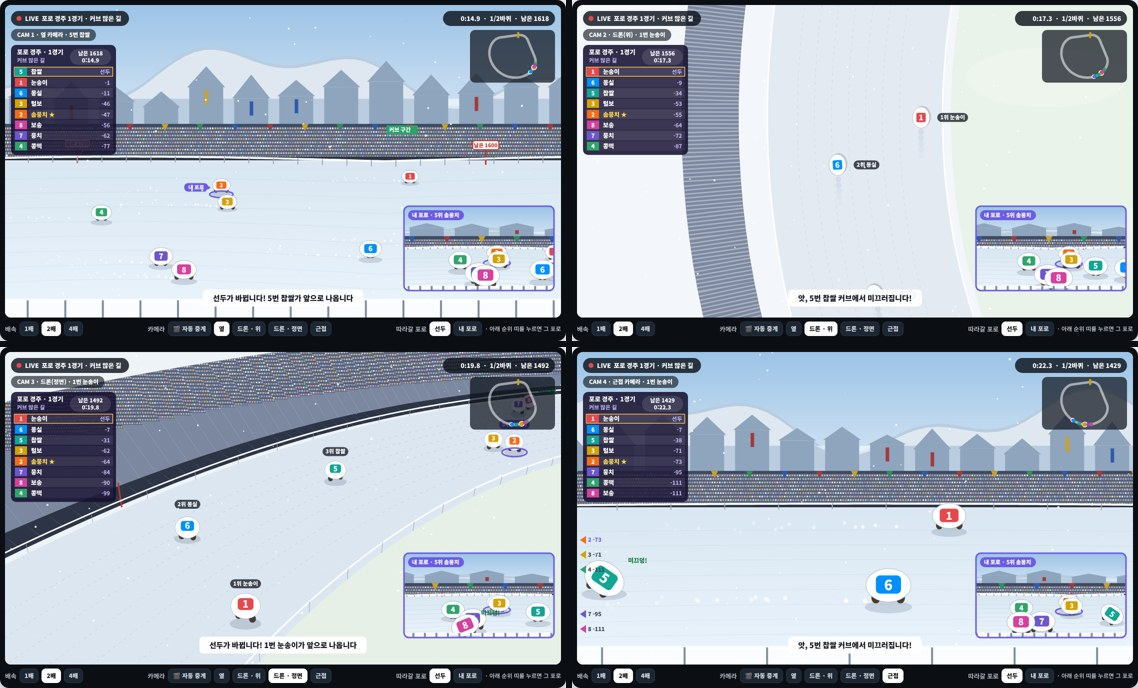
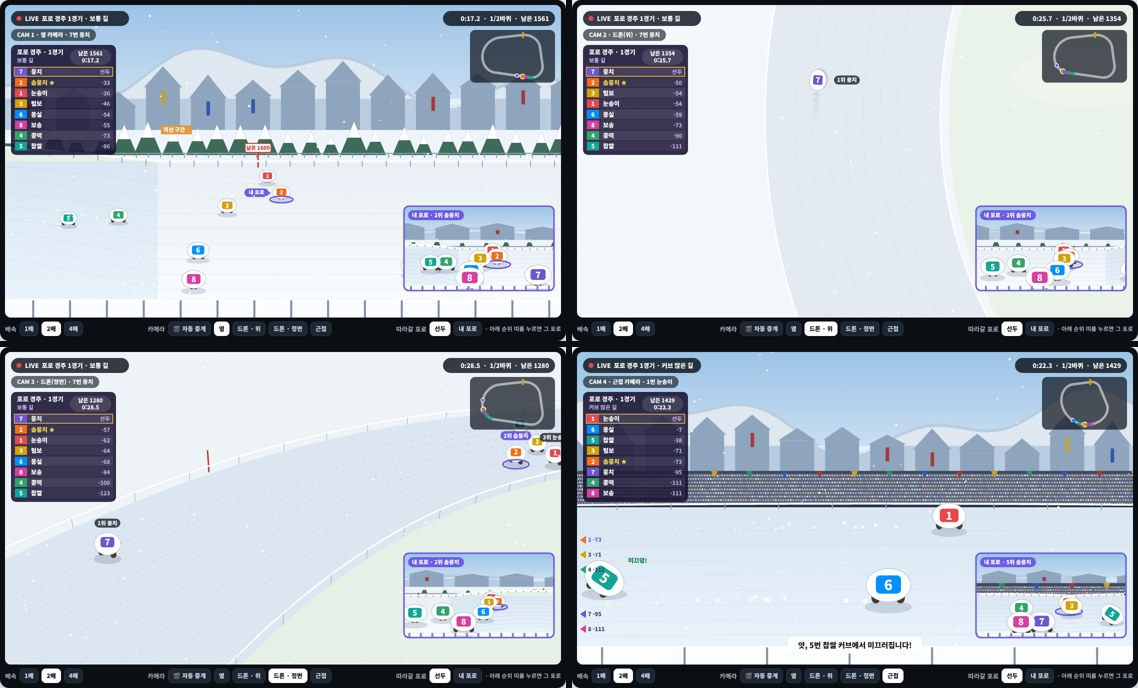
포로 경주 프로토타입: 커브 끊김 해결(주로 좌표 균일화·컷 줄임), 옆 카메라 커브 표현, 관중석 제거
Claude-Session: https://claude.ai/code/session_01TBvrSbpqbBbxvPKqDqCDR5

diff --git a/hidden-summoners/poro-race/index.html b/hidden-summoners/poro-race/index.html
@@ -121,7 +121,7 @@ details summary{cursor:pointer;color:var(--sub);font-weight:700}
   <h2>세 화면, <em>프로토타입</em> 그대로</h2>
   <p class="lead">아래 그림은 실제로 동작하는 프로토타입의 화면입니다. 같은 엔진으로 시뮬레이션도 돌렸습니다.</p>
   <figure class="shot"><img src="../../versions/img/lol/../poro/ui-1-card.jpg" alt="출전표 화면: 오늘의 코스 띠와 포로 8마리의 적성, 각질, 최근 5경기, 고른 사람 수" loading="lazy"><figcaption><b>① 출전표</b> · 위 띠가 오늘의 코스(초록 커브 · 주황 직선, 2바퀴). 고른 사람이 적은 4마리는 「숨은 포로」 표시. 오른쪽에 읽는 법을 늘 띄워 처음 보는 사람도 고를 수 있게 함.</figcaption></figure>
-  <figure class="shot"><img src="../../versions/img/lol/../poro/ui-2-race.jpg" alt="경주 중계 화면 네 가지 카메라: 옆, 드론, 정면, 근접" loading="lazy"><figcaption><b>② 경주 · 경마 중계 화면</b> · 포로마다 카메라 4대: <b>옆</b>(관중석 앞 주로를 나란히 따라감) · <b>드론 · 위</b>(바로 위에서 따라가며 내려다봄, 커브가 실제로 휘어 보임) · <b>드론 · 정면</b>(포로들 앞 공중에서 함께 날며 다가오는 무리를 내려다봄, 커브도 따라 돎) · <b>근접</b>. 기본은 <b>자동 중계</b> — 선두 다툼 · 미끄러짐 · 지침 · 질주가 생기면 그 포로로 컷이 넘어가고, 마지막 직선은 정면 · 결승은 슬로모션. 내 포로는 오른쪽 아래 작은 화면(PIP)으로 늘 보이고, 순위 띠를 누르면 그 포로를 따라감. 왼쪽 위 순위판(번호 · 이름 · 선두와의 차이)과 미니맵, 아래 해설 자막. 화면이 끊기지 않도록 계산 사이의 위치를 부드럽게 이어 그림.</figcaption></figure>
+  <figure class="shot"><img src="../../versions/img/lol/../poro/ui-2-race.jpg" alt="경주 중계 화면 네 가지 카메라: 옆, 드론, 정면, 근접" loading="lazy"><figcaption><b>② 경주 · 경마 중계 화면</b> · 포로마다 카메라 4대: <b>옆</b>(주로를 나란히 따라감, 커브에서는 주로가 멀리 돌아 들어가는 게 보임) · <b>드론 · 위</b>(바로 위에서 따라가며 내려다봄, 커브가 실제로 휘어 보임) · <b>드론 · 정면</b>(포로들 앞 공중에서 함께 날며 다가오는 무리를 내려다봄, 커브도 따라 돎) · <b>근접</b>. 기본은 <b>자동 중계</b> — 선두 다툼 · 미끄러짐 · 지침 · 질주가 생기면 그 포로로 컷이 넘어가고, 마지막 직선은 정면 · 결승은 슬로모션. 내 포로는 오른쪽 아래 작은 화면(PIP)으로 늘 보이고, 순위 띠를 누르면 그 포로를 따라감. 왼쪽 위 순위판(번호 · 이름 · 선두와의 차이)과 미니맵, 아래 해설 자막. 화면이 끊기지 않도록 계산 사이의 위치를 부드럽게 이어 그림.</figcaption></figure>
   <figure class="shot"><img src="../../versions/img/lol/../poro/ui-3-result.jpg" alt="결과 화면: 내 포로 순위, 학회 기여와 포인트, 이번 판 해설, 전체 순위" loading="lazy"><figcaption><b>③ 결과</b> · 받은 점수와 「이번 판 내가 한 일」(응원 횟수 · 간식 성공 여부), 코스에 따라 왜 그 포로가 이겼는지 한 줄 해설. 다음 판에 출전표를 읽는 눈이 생기게 함.</figcaption></figure>
 </section>
 

diff --git a/tools/poro-race/spec.src.html b/tools/poro-race/spec.src.html
@@ -121,7 +121,7 @@ details summary{cursor:pointer;color:var(--sub);font-weight:700}
   <h2>세 화면, <em>프로토타입</em> 그대로</h2>
   <p class="lead">아래 그림은 실제로 동작하는 프로토타입의 화면입니다. 같은 엔진으로 시뮬레이션도 돌렸습니다.</p>
   <figure class="shot"><img src="__IMGDIR__../poro/ui-1-card.jpg" alt="출전표 화면: 오늘의 코스 띠와 포로 8마리의 적성, 각질, 최근 5경기, 고른 사람 수" loading="lazy"><figcaption><b>① 출전표</b> · 위 띠가 오늘의 코스(초록 커브 · 주황 직선, 2바퀴). 고른 사람이 적은 4마리는 「숨은 포로」 표시. 오른쪽에 읽는 법을 늘 띄워 처음 보는 사람도 고를 수 있게 함.</figcaption></figure>
-  <figure class="shot"><img src="__IMGDIR__../poro/ui-2-race.jpg" alt="경주 중계 화면 네 가지 카메라: 옆, 드론, 정면, 근접" loading="lazy"><figcaption><b>② 경주 · 경마 중계 화면</b> · 포로마다 카메라 4대: <b>옆</b>(관중석 앞 주로를 나란히 따라감) · <b>드론 · 위</b>(바로 위에서 따라가며 내려다봄, 커브가 실제로 휘어 보임) · <b>드론 · 정면</b>(포로들 앞 공중에서 함께 날며 다가오는 무리를 내려다봄, 커브도 따라 돎) · <b>근접</b>. 기본은 <b>자동 중계</b> — 선두 다툼 · 미끄러짐 · 지침 · 질주가 생기면 그 포로로 컷이 넘어가고, 마지막 직선은 정면 · 결승은 슬로모션. 내 포로는 오른쪽 아래 작은 화면(PIP)으로 늘 보이고, 순위 띠를 누르면 그 포로를 따라감. 왼쪽 위 순위판(번호 · 이름 · 선두와의 차이)과 미니맵, 아래 해설 자막. 화면이 끊기지 않도록 계산 사이의 위치를 부드럽게 이어 그림.</figcaption></figure>
+  <figure class="shot"><img src="__IMGDIR__../poro/ui-2-race.jpg" alt="경주 중계 화면 네 가지 카메라: 옆, 드론, 정면, 근접" loading="lazy"><figcaption><b>② 경주 · 경마 중계 화면</b> · 포로마다 카메라 4대: <b>옆</b>(주로를 나란히 따라감, 커브에서는 주로가 멀리 돌아 들어가는 게 보임) · <b>드론 · 위</b>(바로 위에서 따라가며 내려다봄, 커브가 실제로 휘어 보임) · <b>드론 · 정면</b>(포로들 앞 공중에서 함께 날며 다가오는 무리를 내려다봄, 커브도 따라 돎) · <b>근접</b>. 기본은 <b>자동 중계</b> — 선두 다툼 · 미끄러짐 · 지침 · 질주가 생기면 그 포로로 컷이 넘어가고, 마지막 직선은 정면 · 결승은 슬로모션. 내 포로는 오른쪽 아래 작은 화면(PIP)으로 늘 보이고, 순위 띠를 누르면 그 포로를 따라감. 왼쪽 위 순위판(번호 · 이름 · 선두와의 차이)과 미니맵, 아래 해설 자막. 화면이 끊기지 않도록 계산 사이의 위치를 부드럽게 이어 그림.</figcaption></figure>
   <figure class="shot"><img src="__IMGDIR__../poro/ui-3-result.jpg" alt="결과 화면: 내 포로 순위, 학회 기여와 포인트, 이번 판 해설, 전체 순위" loading="lazy"><figcaption><b>③ 결과</b> · 받은 점수와 「이번 판 내가 한 일」(응원 횟수 · 간식 성공 여부), 코스에 따라 왜 그 포로가 이겼는지 한 줄 해설. 다음 판에 출전표를 읽는 눈이 생기게 함.</figcaption></figure>
 </section>
 

diff --git a/versions/poro-race-spec-v2.html b/versions/poro-race-spec-v2.html
@@ -121,7 +121,7 @@ details summary{cursor:pointer;color:var(--sub);font-weight:700}
   <h2>세 화면, <em>프로토타입</em> 그대로</h2>
   <p class="lead">아래 그림은 실제로 동작하는 프로토타입의 화면입니다. 같은 엔진으로 시뮬레이션도 돌렸습니다.</p>
   <figure class="shot"><img src="img/lol/../poro/ui-1-card.jpg" alt="출전표 화면: 오늘의 코스 띠와 포로 8마리의 적성, 각질, 최근 5경기, 고른 사람 수" loading="lazy"><figcaption><b>① 출전표</b> · 위 띠가 오늘의 코스(초록 커브 · 주황 직선, 2바퀴). 고른 사람이 적은 4마리는 「숨은 포로」 표시. 오른쪽에 읽는 법을 늘 띄워 처음 보는 사람도 고를 수 있게 함.</figcaption></figure>
-  <figure class="shot"><img src="img/lol/../poro/ui-2-race.jpg" alt="경주 중계 화면 네 가지 카메라: 옆, 드론, 정면, 근접" loading="lazy"><figcaption><b>② 경주 · 경마 중계 화면</b> · 포로마다 카메라 4대: <b>옆</b>(관중석 앞 주로를 나란히 따라감) · <b>드론 · 위</b>(바로 위에서 따라가며 내려다봄, 커브가 실제로 휘어 보임) · <b>드론 · 정면</b>(포로들 앞 공중에서 함께 날며 다가오는 무리를 내려다봄, 커브도 따라 돎) · <b>근접</b>. 기본은 <b>자동 중계</b> — 선두 다툼 · 미끄러짐 · 지침 · 질주가 생기면 그 포로로 컷이 넘어가고, 마지막 직선은 정면 · 결승은 슬로모션. 내 포로는 오른쪽 아래 작은 화면(PIP)으로 늘 보이고, 순위 띠를 누르면 그 포로를 따라감. 왼쪽 위 순위판(번호 · 이름 · 선두와의 차이)과 미니맵, 아래 해설 자막. 화면이 끊기지 않도록 계산 사이의 위치를 부드럽게 이어 그림.</figcaption></figure>
+  <figure class="shot"><img src="img/lol/../poro/ui-2-race.jpg" alt="경주 중계 화면 네 가지 카메라: 옆, 드론, 정면, 근접" loading="lazy"><figcaption><b>② 경주 · 경마 중계 화면</b> · 포로마다 카메라 4대: <b>옆</b>(주로를 나란히 따라감, 커브에서는 주로가 멀리 돌아 들어가는 게 보임) · <b>드론 · 위</b>(바로 위에서 따라가며 내려다봄, 커브가 실제로 휘어 보임) · <b>드론 · 정면</b>(포로들 앞 공중에서 함께 날며 다가오는 무리를 내려다봄, 커브도 따라 돎) · <b>근접</b>. 기본은 <b>자동 중계</b> — 선두 다툼 · 미끄러짐 · 지침 · 질주가 생기면 그 포로로 컷이 넘어가고, 마지막 직선은 정면 · 결승은 슬로모션. 내 포로는 오른쪽 아래 작은 화면(PIP)으로 늘 보이고, 순위 띠를 누르면 그 포로를 따라감. 왼쪽 위 순위판(번호 · 이름 · 선두와의 차이)과 미니맵, 아래 해설 자막. 화면이 끊기지 않도록 계산 사이의 위치를 부드럽게 이어 그림.</figcaption></figure>
   <figure class="shot"><img src="img/lol/../poro/ui-3-result.jpg" alt="결과 화면: 내 포로 순위, 학회 기여와 포인트, 이번 판 해설, 전체 순위" loading="lazy"><figcaption><b>③ 결과</b> · 받은 점수와 「이번 판 내가 한 일」(응원 횟수 · 간식 성공 여부), 코스에 따라 왜 그 포로가 이겼는지 한 줄 해설. 다음 판에 출전표를 읽는 눈이 생기게 함.</figcaption></figure>
 </section>
 
